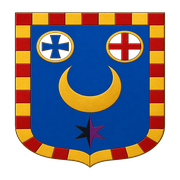
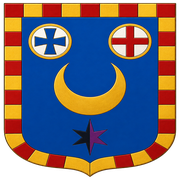
Fix shield consistency and transparent header

diff --git a/assets/css/style.css b/assets/css/style.css
@@ -1193,3 +1193,184 @@ h2 {
     padding-top: 124px !important;
   }
 }
+
+/* === FIXED SHIELD + MODERN TRANSPARENT BAR === */
+
+.topbar {
+  position: fixed !important;
+  top: 0 !important;
+  left: 0 !important;
+  right: 0 !important;
+  z-index: 99999 !important;
+
+  height: 84px !important;
+  min-height: 84px !important;
+  padding: 0 46px !important;
+
+  display: flex !important;
+  align-items: center !important;
+  justify-content: space-between !important;
+  gap: 32px !important;
+
+  border: 0 !important;
+  border-bottom: 0 !important;
+  box-shadow: none !important;
+}
+
+/* Home: transparente sobre la imagen */
+body.home-page .topbar {
+  background: rgba(0, 0, 0, 0.08) !important;
+  backdrop-filter: blur(8px) saturate(110%) !important;
+  -webkit-backdrop-filter: blur(8px) saturate(110%) !important;
+}
+
+/* Páginas internas: cristal claro suave */
+body.inner-page .topbar {
+  background: rgba(244, 239, 228, 0.26) !important;
+  backdrop-filter: blur(22px) saturate(145%) !important;
+  -webkit-backdrop-filter: blur(22px) saturate(145%) !important;
+}
+
+.topbar::before,
+.topbar::after {
+  content: none !important;
+  display: none !important;
+}
+
+.brand {
+  display: inline-flex !important;
+  align-items: center !important;
+  gap: 13px !important;
+  text-decoration: none !important;
+  white-space: nowrap !important;
+
+  font-weight: 820 !important;
+  font-size: 27px !important;
+  letter-spacing: -0.025em !important;
+  line-height: 1 !important;
+}
+
+.brand::after {
+  content: none !important;
+  display: none !important;
+}
+
+/* CLAVE: el escudo no se mezcla con el fondo */
+.brand-logo {
+  width: 60px !important;
+  height: 60px !important;
+  object-fit: contain !important;
+  display: block !important;
+
+  opacity: 1 !important;
+  background: transparent !important;
+  border: 0 !important;
+  box-shadow: none !important;
+  filter: none !important;
+  mix-blend-mode: normal !important;
+  isolation: isolate !important;
+}
+
+body.home-page .brand {
+  color: #ffffff !important;
+  text-shadow: 0 2px 14px rgba(0, 0, 0, 0.75) !important;
+}
+
+body.inner-page .brand {
+  color: #111827 !important;
+  text-shadow: none !important;
+}
+
+.nav {
+  display: flex !important;
+  align-items: center !important;
+  gap: 22px !important;
+  margin: 0 !important;
+  padding: 0 !important;
+  background: transparent !important;
+}
+
+.nav a {
+  height: 84px !important;
+  display: inline-flex !important;
+  align-items: center !important;
+
+  font-size: 11px !important;
+  font-weight: 780 !important;
+  letter-spacing: 0.09em !important;
+  text-transform: uppercase !important;
+  text-decoration: none !important;
+
+  border: 0 !important;
+  border-bottom: 2px solid transparent !important;
+}
+
+body.home-page .nav a {
+  color: rgba(255, 255, 255, 0.90) !important;
+  text-shadow: 0 2px 12px rgba(0, 0, 0, 0.70) !important;
+}
+
+body.home-page .nav a:hover {
+  color: #ffffff !important;
+  border-bottom-color: #c7a451 !important;
+}
+
+body.inner-page .nav a {
+  color: rgba(17, 24, 39, 0.76) !important;
+  text-shadow: none !important;
+}
+
+body.inner-page .nav a:hover {
+  color: #111827 !important;
+  border-bottom-color: #c7a451 !important;
+}
+
+/* Home debajo de barra fija */
+body.home-page .hero {
+  padding-top: 150px !important;
+}
+
+/* Internas debajo de barra fija */
+body.inner-page .content-page,
+body.inner-page .post-page {
+  padding-top: 142px !important;
+}
+
+/* Mobile: que el escudo siga igual, no gigante ni deformado */
+@media (max-width: 820px) {
+  .topbar {
+    height: 76px !important;
+    min-height: 76px !important;
+    padding: 0 20px !important;
+    flex-wrap: nowrap !important;
+  }
+
+  .brand {
+    font-size: 23px !important;
+    gap: 10px !important;
+  }
+
+  .brand-logo {
+    width: 48px !important;
+    height: 48px !important;
+    filter: none !important;
+    mix-blend-mode: normal !important;
+  }
+
+  .nav {
+    display: none !important;
+  }
+
+  .nav-toggle {
+    display: inline-flex !important;
+  }
+
+  body.home-page .hero {
+    padding-top: 118px !important;
+  }
+
+  body.inner-page .content-page,
+  body.inner-page .post-page {
+    padding-top: 112px !important;
+  }
+}

diff --git a/_layouts/default.html b/_layouts/default.html
@@ -5,18 +5,18 @@
   <title>{% if page.title %}{{ page.title }} | {% endif %}Mensur</title>
   <meta name="viewport" content="width=device-width, initial-scale=1">
   <meta name="description" content="{{ site.description }}">
-  <link rel="stylesheet" href="/assets/css/style.css?v=glass-header-final-v2">
+  <link rel="stylesheet" href="/assets/css/style.css?v=fixed-shield-transparent-bar-1">
 
 
-  <link rel="icon" type="image/png" href="/favicon.png?v=shield-final">
-  <link rel="shortcut icon" type="image/png" href="/favicon.png?v=shield-final">
-  <link rel="apple-touch-icon" href="/assets/images/apple-touch-icon.png?v=shield-final">
+  <link rel="icon" type="image/png" href="/favicon.png?v=fixed-shield-1">
+  <link rel="shortcut icon" href="/favicon.ico?v=fixed-shield-1">
+  <link rel="apple-touch-icon" href="/assets/images/apple-touch-icon.png?v=fixed-shield-1">
 
 </head>
 <body class="{% if page.url == '/' %}home-page{% else %}inner-page{% endif %}">
   <header class="topbar">
     <a class="brand" href="/">
-  <img class="brand-logo" src="/assets/images/mensur-logo.png" alt="Mensur logo">
+  <img class="brand-logo" src="/assets/images/mensur-shield-header.png?v=fixed-shield-1" alt="Mensur shield">
   <span>Mensur</span>
 </a>
     <button class="nav-toggle" id="navToggle">Menu</button>